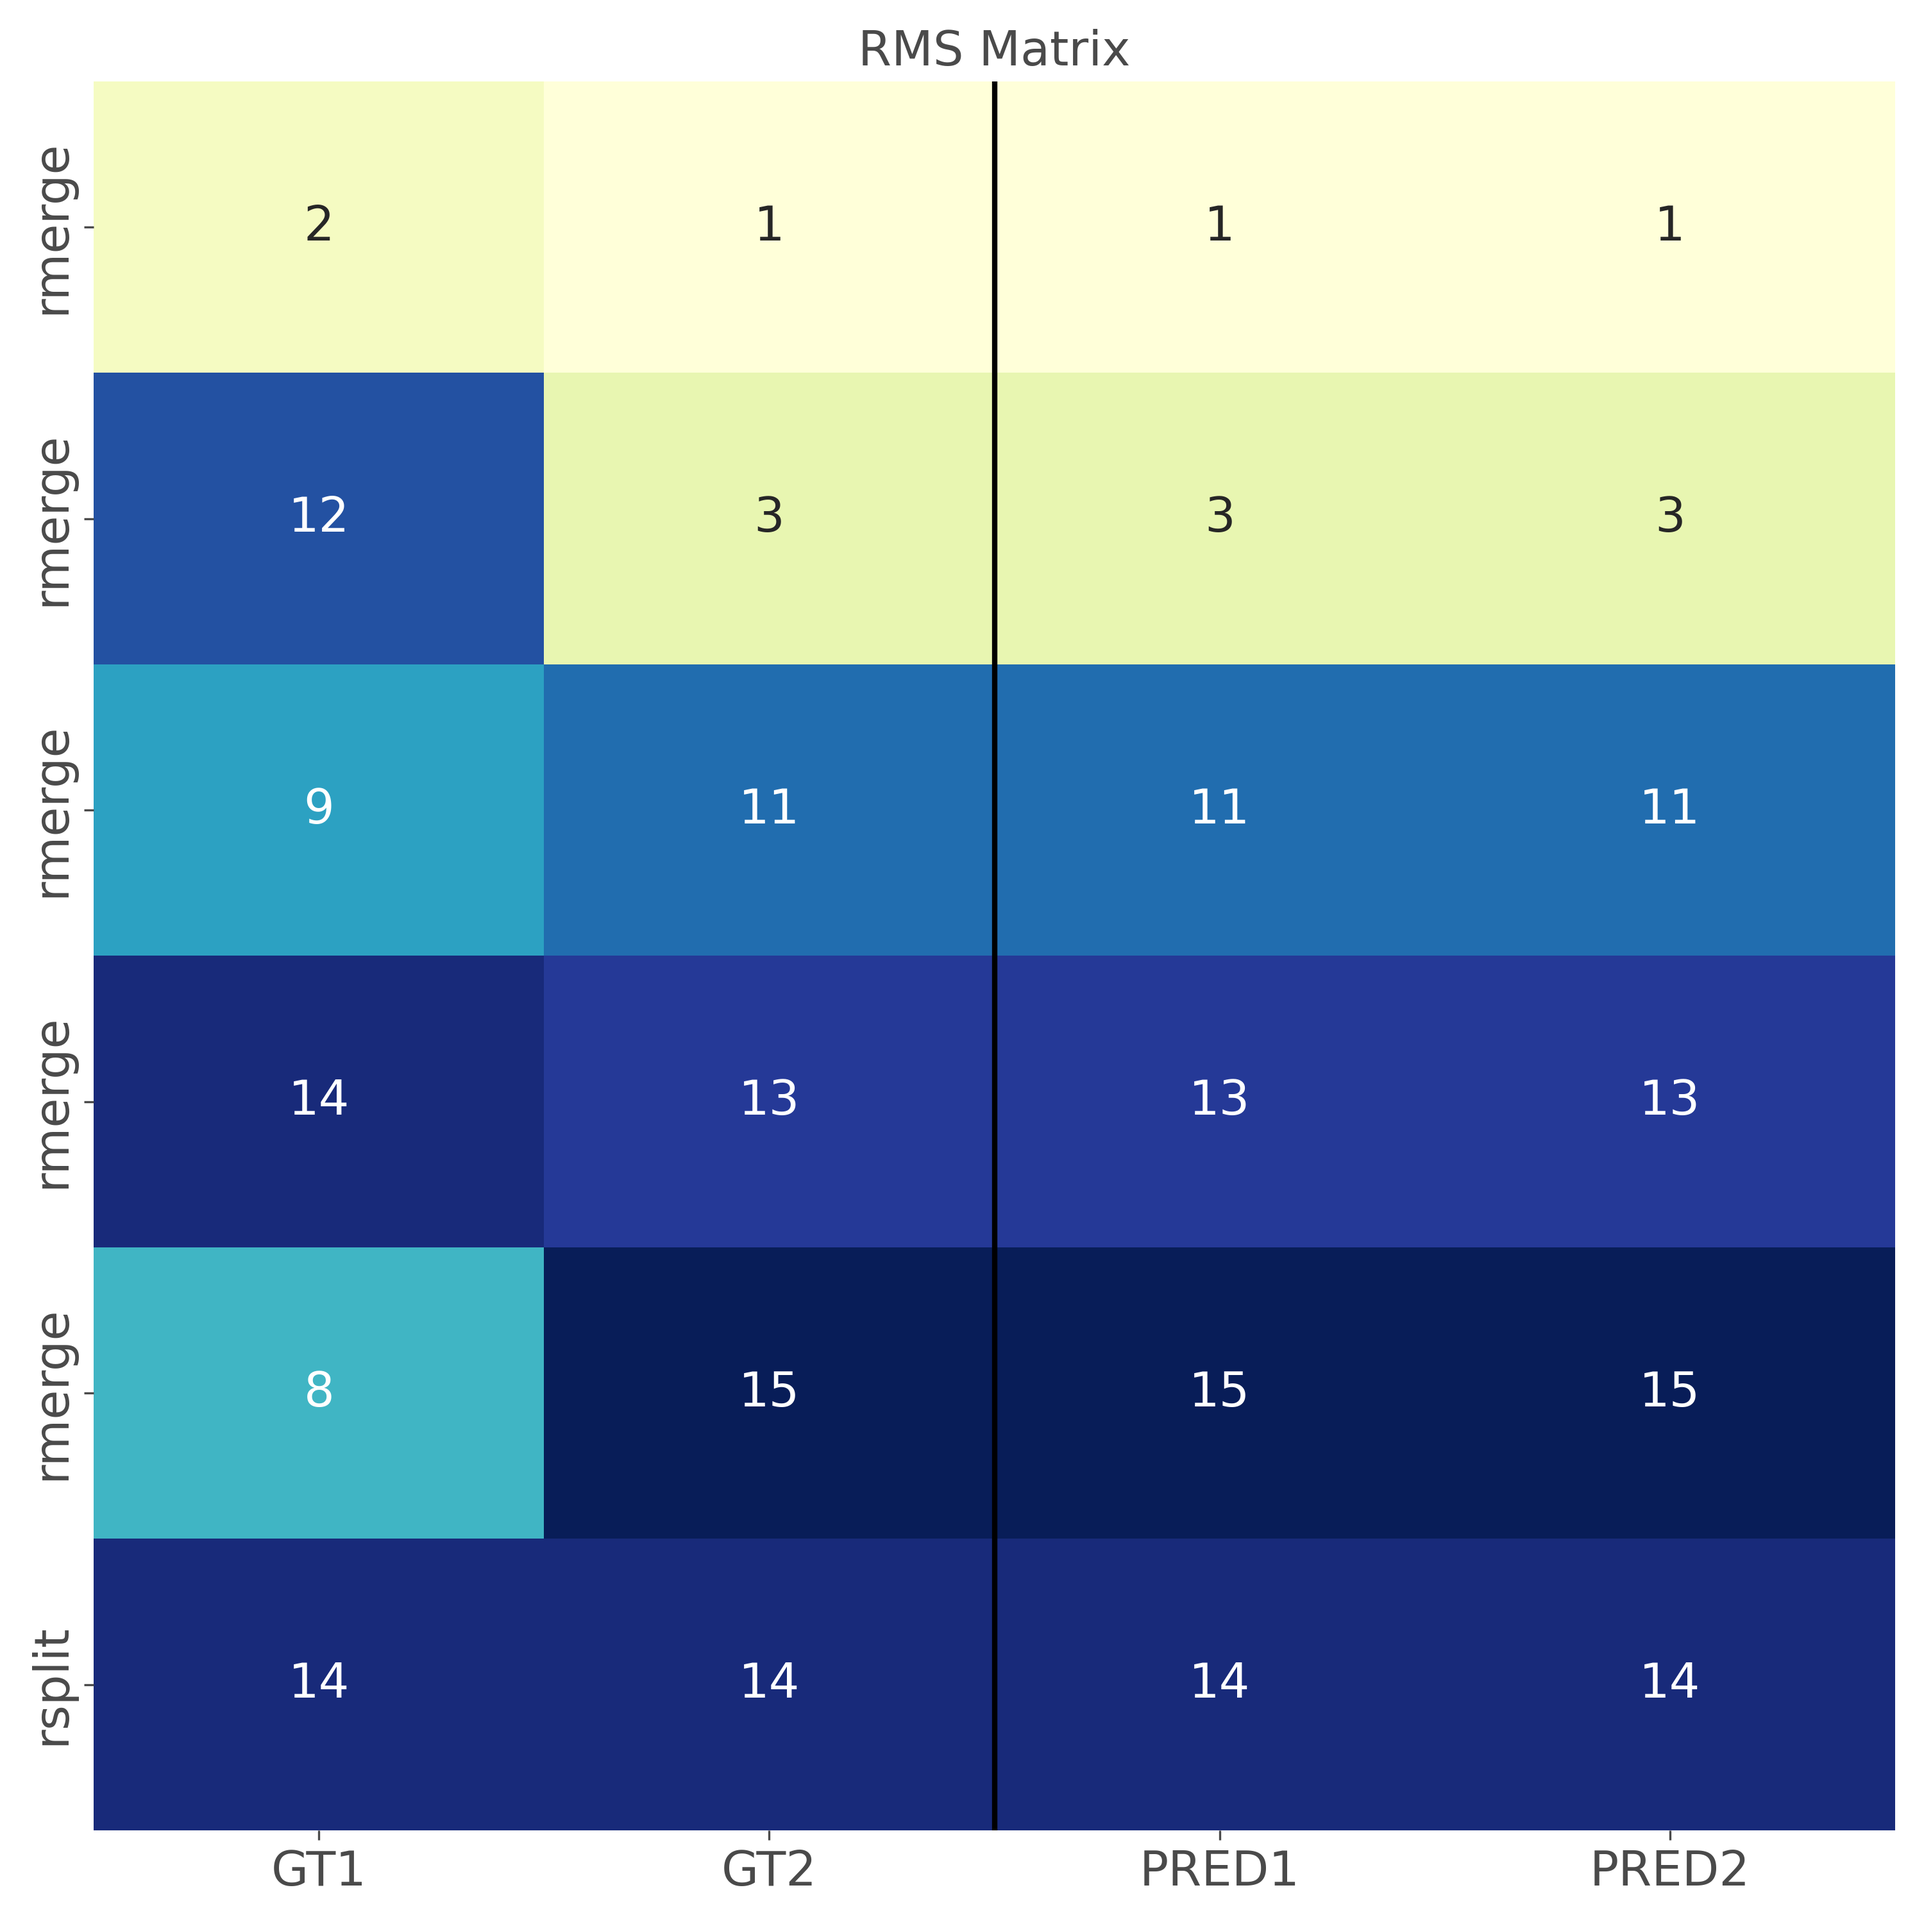
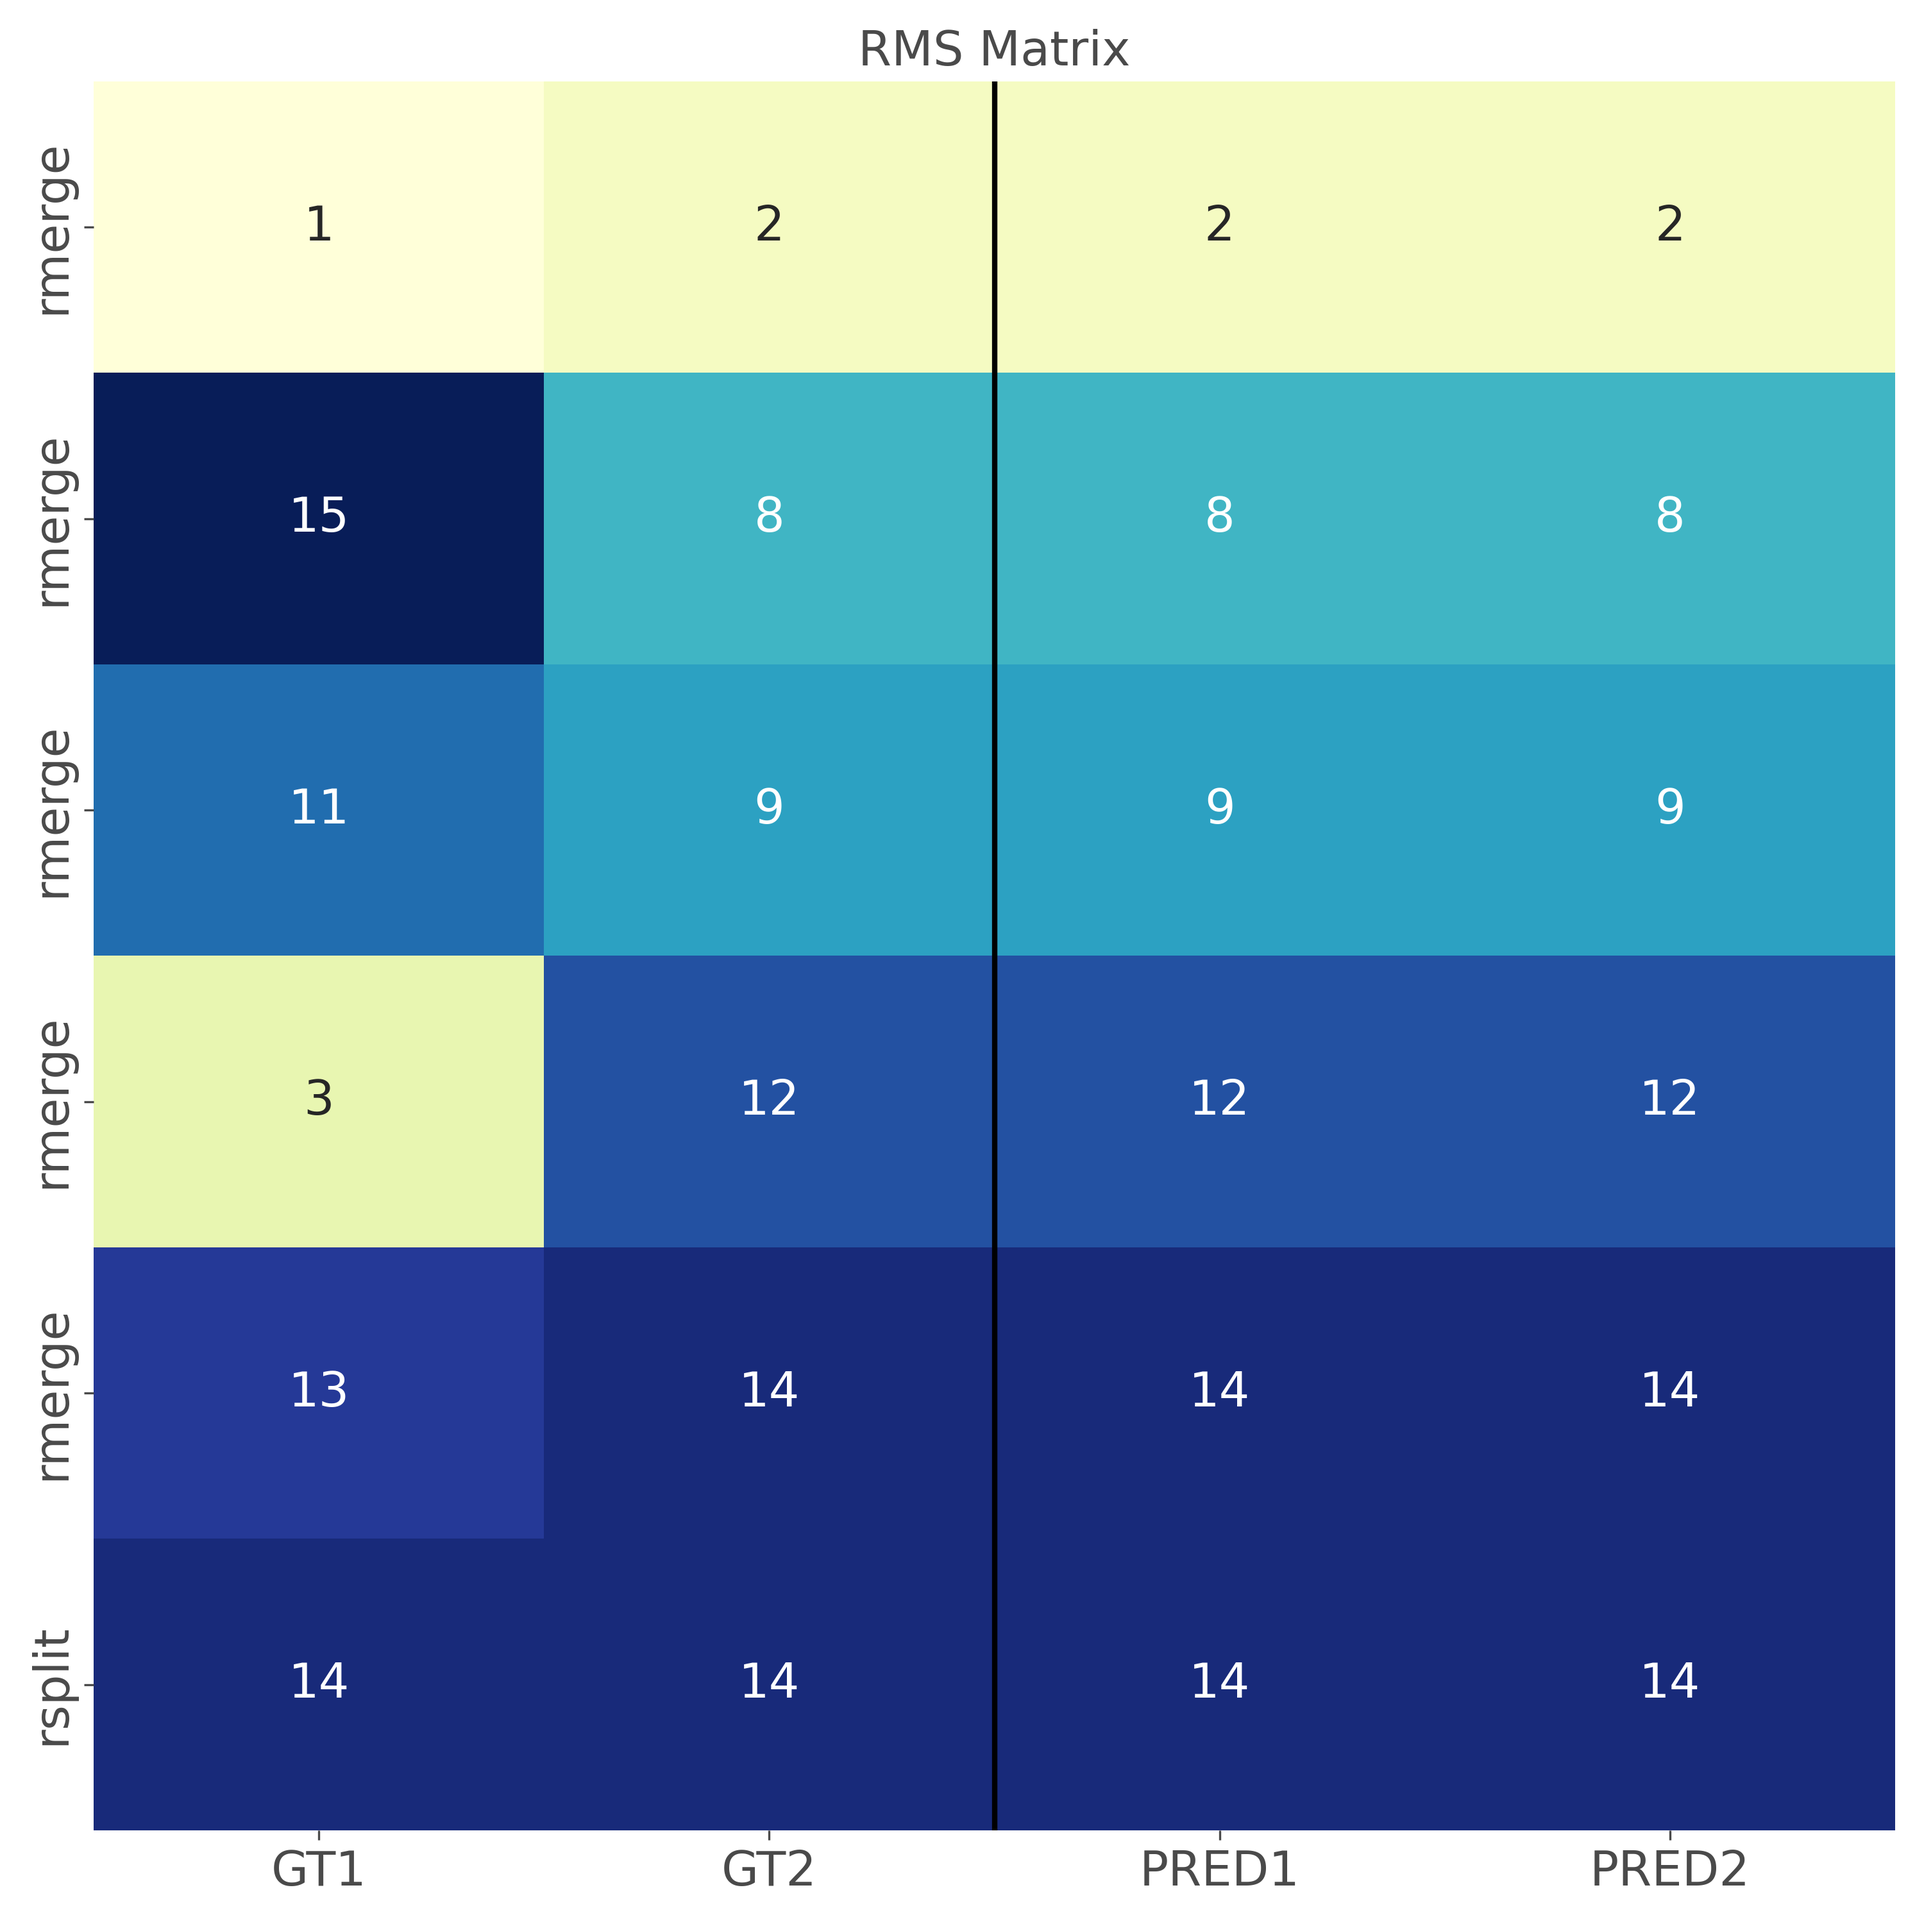
v1.0.4

diff --git a/src/mheatmap/_rms_permute.py b/src/mheatmap/_rms_permute.py
@@ -309,9 +309,7 @@ class _RMSPermute:
             self.rms_label_map.items(),
             key=lambda x: (
                 x[1][1],  # Primary sort by type
-                (
-                    x[1][0] if x[1][1] == "rsplit" else x[0]
-                ),  # Secondary sort by pred for rmerge, gt for rsplit
+                x[1][0],  # Secondary sort by gt
             ),
         )
 
